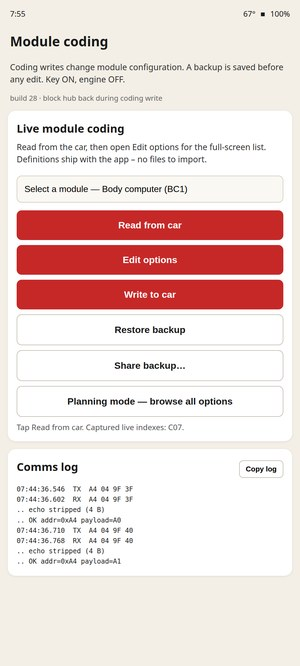
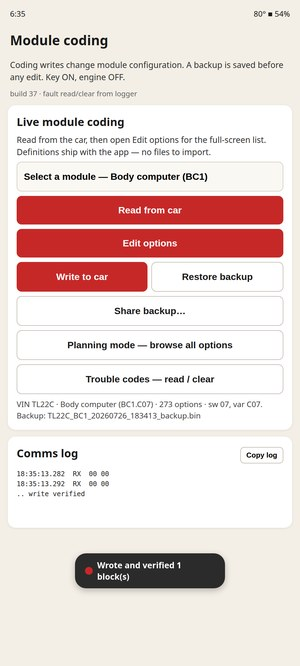
Update R53 Coding post for build 37 features
Document backup picker, EMS edit options, trouble codes, write
verification, and expanded everyday planning-mode coverage.

Changed region(s): [[0.03, 0.03, 0.99, 0.9009], [0.81, 0.0, 0.96, 0.03], [0.03, 0.0, 0.06, 0.03]]

diff --git a/_posts/2026-07-26-r53-coding.md b/_posts/2026-07-26-r53-coding.md
@@ -2,10 +2,10 @@
 title: "R53 Coding — Module Coding from Your Phone"
 date: 2026-07-26 00:30:00 -0400
 categories: car tech
-tags: [mini, r53, r52, android, coding, ncs-expert, kdcan, bc1, module-coding]
+tags: [mini, r53, r52, android, coding, ncs-expert, kdcan, bc1, ems, module-coding, diagnostics]
 cover: /assets/images/r53-coding/module-coding.jpg
 lightbox: true
-excerpt: "Android app that does R53 module coding over K+DCAN — NCS-style options with plain-English descriptions, planning mode, and a call for older-car testers"
+excerpt: "Build 37 of R53 Coding — NCS-style module coding over K+DCAN, planning mode, backup restore, trouble codes, and a call for older-car testers"
 article_header:
   type: overlay
   theme: dark
@@ -19,41 +19,65 @@ article_header:
 
 ## What it is
 
-**R53 Coding** is an Android app for reading and writing Mini R53 module coding the way you'd do it in **NCS Expert** — without the Windows laptop, INPA install, and daten-file hunt.
+**R53 Coding** lives inside my [Mini R53 Logger](/car/tech/2026/07/24/r53-logger-play-store.html) Android app — module coding the way you'd do it in **NCS Expert**, without the Windows laptop, INPA install, and daten-file hunt.
 
-Plug a standard **K+DCAN** cable into the OBD port, put a **USB-A to USB-C host (OTG)** adapter on the phone, and the app talks to the modules directly. Definitions ship in the app — no files to import.
+Plug a standard **K+DCAN** cable into the OBD port, put a **USB-A to USB-C host (OTG)** adapter on the phone, and it talks to the modules directly. Definitions ship in the app — no files to import.
 
-I've been testing it on **my two cars**. It works there. What I still need is coverage on an **older R53** — someone who already knows NCS Expert, can take a proper backup first, and is willing to compare what the app reads/writes against a known-good desktop coding session.
+**Build 37** adds fault read/clear from the logger side, a proper backup picker, and a lot more everyday descriptions on the common R53 options.
 
-![Module coding screen — read, edit, write, backup](/assets/images/r53-coding/module-coding.jpg){:.img-md}
-*Live module coding — pick a module (BC1 here), read from the car, edit, write back. Backup is saved before any edit.*
+I've been testing it on **my two cars**. What I still need is coverage on an **older R53** — someone who already knows NCS Expert, can take a proper desktop backup first, and is willing to compare what the app reads/writes against a known-good coding session.
+
+![Module coding after a verified write](/assets/images/r53-coding/module-coding.jpg){:.img-md}
+*Live module coding on BC1 — VIN, software/variant, and the auto-saved backup file after a write. Toast: wrote and verified 1 block.*
 
 ## How a coding session works
 
 Key **ON**, engine **OFF**. The live screen is short on purpose:
 
-1. **Select a module** — e.g. Body computer (BC1)
-2. **Read from car** — pulls the live coding indexes
-3. **Edit options** — full-screen list of settings
-4. **Write to car** — commits the change
+1. **Select a module** — Body computer (BC1), engine (EMS2000), convertible top (CVM), etc.
+2. **Read from car** — pulls the live coding indexes (shows VIN, option count, sw/var)
+3. **Edit options** — full-screen list, grouped by category
+4. **Write to car** — commits the change and **verifies** the block came back clean
 
-Before any write, the app saves a **backup**. You can **restore** that backup or **share** it off the phone. A comms log at the bottom shows the TX/RX traffic if something goes sideways.
+Before any edit/write, the app saves a **`.bin` backup** named with VIN + module + timestamp (e.g. `TL22C_BC1_20260726_183413_backup.bin`). A comms log at the bottom shows TX/RX if something goes sideways.
+
+## Edit options — live values, plain English
+
+After a read, **Edit options** shows what the car actually has coded, not just the catalog. Settings are grouped (Features, Engine & drivetrain, Emissions & market, …). Each row has the friendly name, the NCS parameter, a short description where I've written one, and the **current** value.
+
+![Edit options on the engine module (EMS2000)](/assets/images/r53-coding/edit-options.jpg){:.img-md}
+*EMS.C04 — cruise, A/C, full-throttle compressor cut (`KLIMA_INAKTIV_BEI_VOLLGAS`), traction control. Write sits at the bottom of the list.*
+
+## Backups — restore, edit-only, or share
+
+**Restore backup** opens a picker of every backup the phone has kept for that module. Per file you can:
+
+- **Restore backup** — write it back to the car
+- **Edit only** — open the values without writing
+- **Share backup…** — export the `.bin` off the phone
+
+![Choose a backup dialog](/assets/images/r53-coding/choose-backup.jpg){:.img-md}
+*Pick a dated BC1 backup — restore to the car, open for edit-only, or share the file.*
 
 ## Planning mode
 
 You don't need the car plugged in to explore what's available. **Planning mode** opens the same option lists offline — nothing on that screen talks to the car.
 
 ![Planning mode — browse coding options offline](/assets/images/r53-coding/planning-mode.jpg){:.img-md}
-*Planning mode on BC1.C07 — 273 settings, 76 everyday, the rest under Advanced. Plain titles plus the NCS parameter names.*
+*BC1.C07 in planning mode — 273 settings, 99 everyday, the rest under Advanced.*
 
-Modules show up as tabs (Body computer, Convertible top / CVM, and so on). Each setting card has:
+Modules show up as tabs. Each setting card has:
 
 - A **plain-English title**
-- The **NCS-style parameter name** (e.g. `TAGFAHRLICHT_ECE`)
+- The **NCS-style parameter name** (e.g. `HEIMLEUCHTEN`, `TAGFAHRLICHT_ECE`)
 - A short **description** where I've been able to write one
-- The actual **options** (Off / On, variants, etc.)
+- The actual **choices** (Off / On, time values, variants, …)
 
-I've filled in the common R53 stuff first — country variant, European vs NAS DRL / dipped-beam / fog behaviour, and the other everyday BC1 items people actually change. Advanced stays available for the long tail.
+Everyday coverage now includes the stuff people actually change on an R53: country variant, ECE vs NAS lighting, follow-me-home (`HEIMLEUCHTEN`), automatic headlights / AUTO detent (`MIT_FLC` / `MIT_FLC_SCHALTER`), DRL brightness, fog behaviour, and more. Advanced still has the long tail.
+
+## Trouble codes
+
+Same cable, same session: **Trouble codes — read / clear** is on the coding screen (build 37 pulls fault read/clear from the logger path). Handy when a coding change or a retrofit leaves a light on and you want to confirm/clear without bouncing to another tool.
 
 ## Hardware
 
@@ -73,7 +97,7 @@ I've only shaken this down on the two R53s I have here. Before I trust it more w
 2. Will take a **desktop NCS backup first**
 3. Is willing to read the same module with the app and tell me what matches / what doesn't
 
-If that's you — or you just want an early APK to poke at in planning mode — email me:
+If that's you — or you just want an early build to poke at in planning mode — email me:
 
 **→ [matt@geekopolis.com](mailto:matt@geekopolis.com)**
 
@@ -86,4 +110,4 @@ Instagram works too: [**@mattryan6729**](https://www.instagram.com/mattryan6729/
 - **Track / DIY use.** You're writing module configuration on a 20-year-old car.
 - **Backup first** — with this app *and*, until it's proven on more hardware, with NCS Expert if you have it.
 - **Key on, engine off** for live read/write. Don't code with the engine running.
-- Related: the [R53 Android datalogger](/car/tech/2026/07/22/r53-android-datalogger.html) / [Play Store logger post](/car/tech/2026/07/24/r53-logger-play-store.html) is a separate app for live engine data and ECU backup/flash.
+- Related logger writeup: [R53 Android datalogger](/car/tech/2026/07/22/r53-android-datalogger.html) / [Play Store logger post](/car/tech/2026/07/24/r53-logger-play-store.html).
